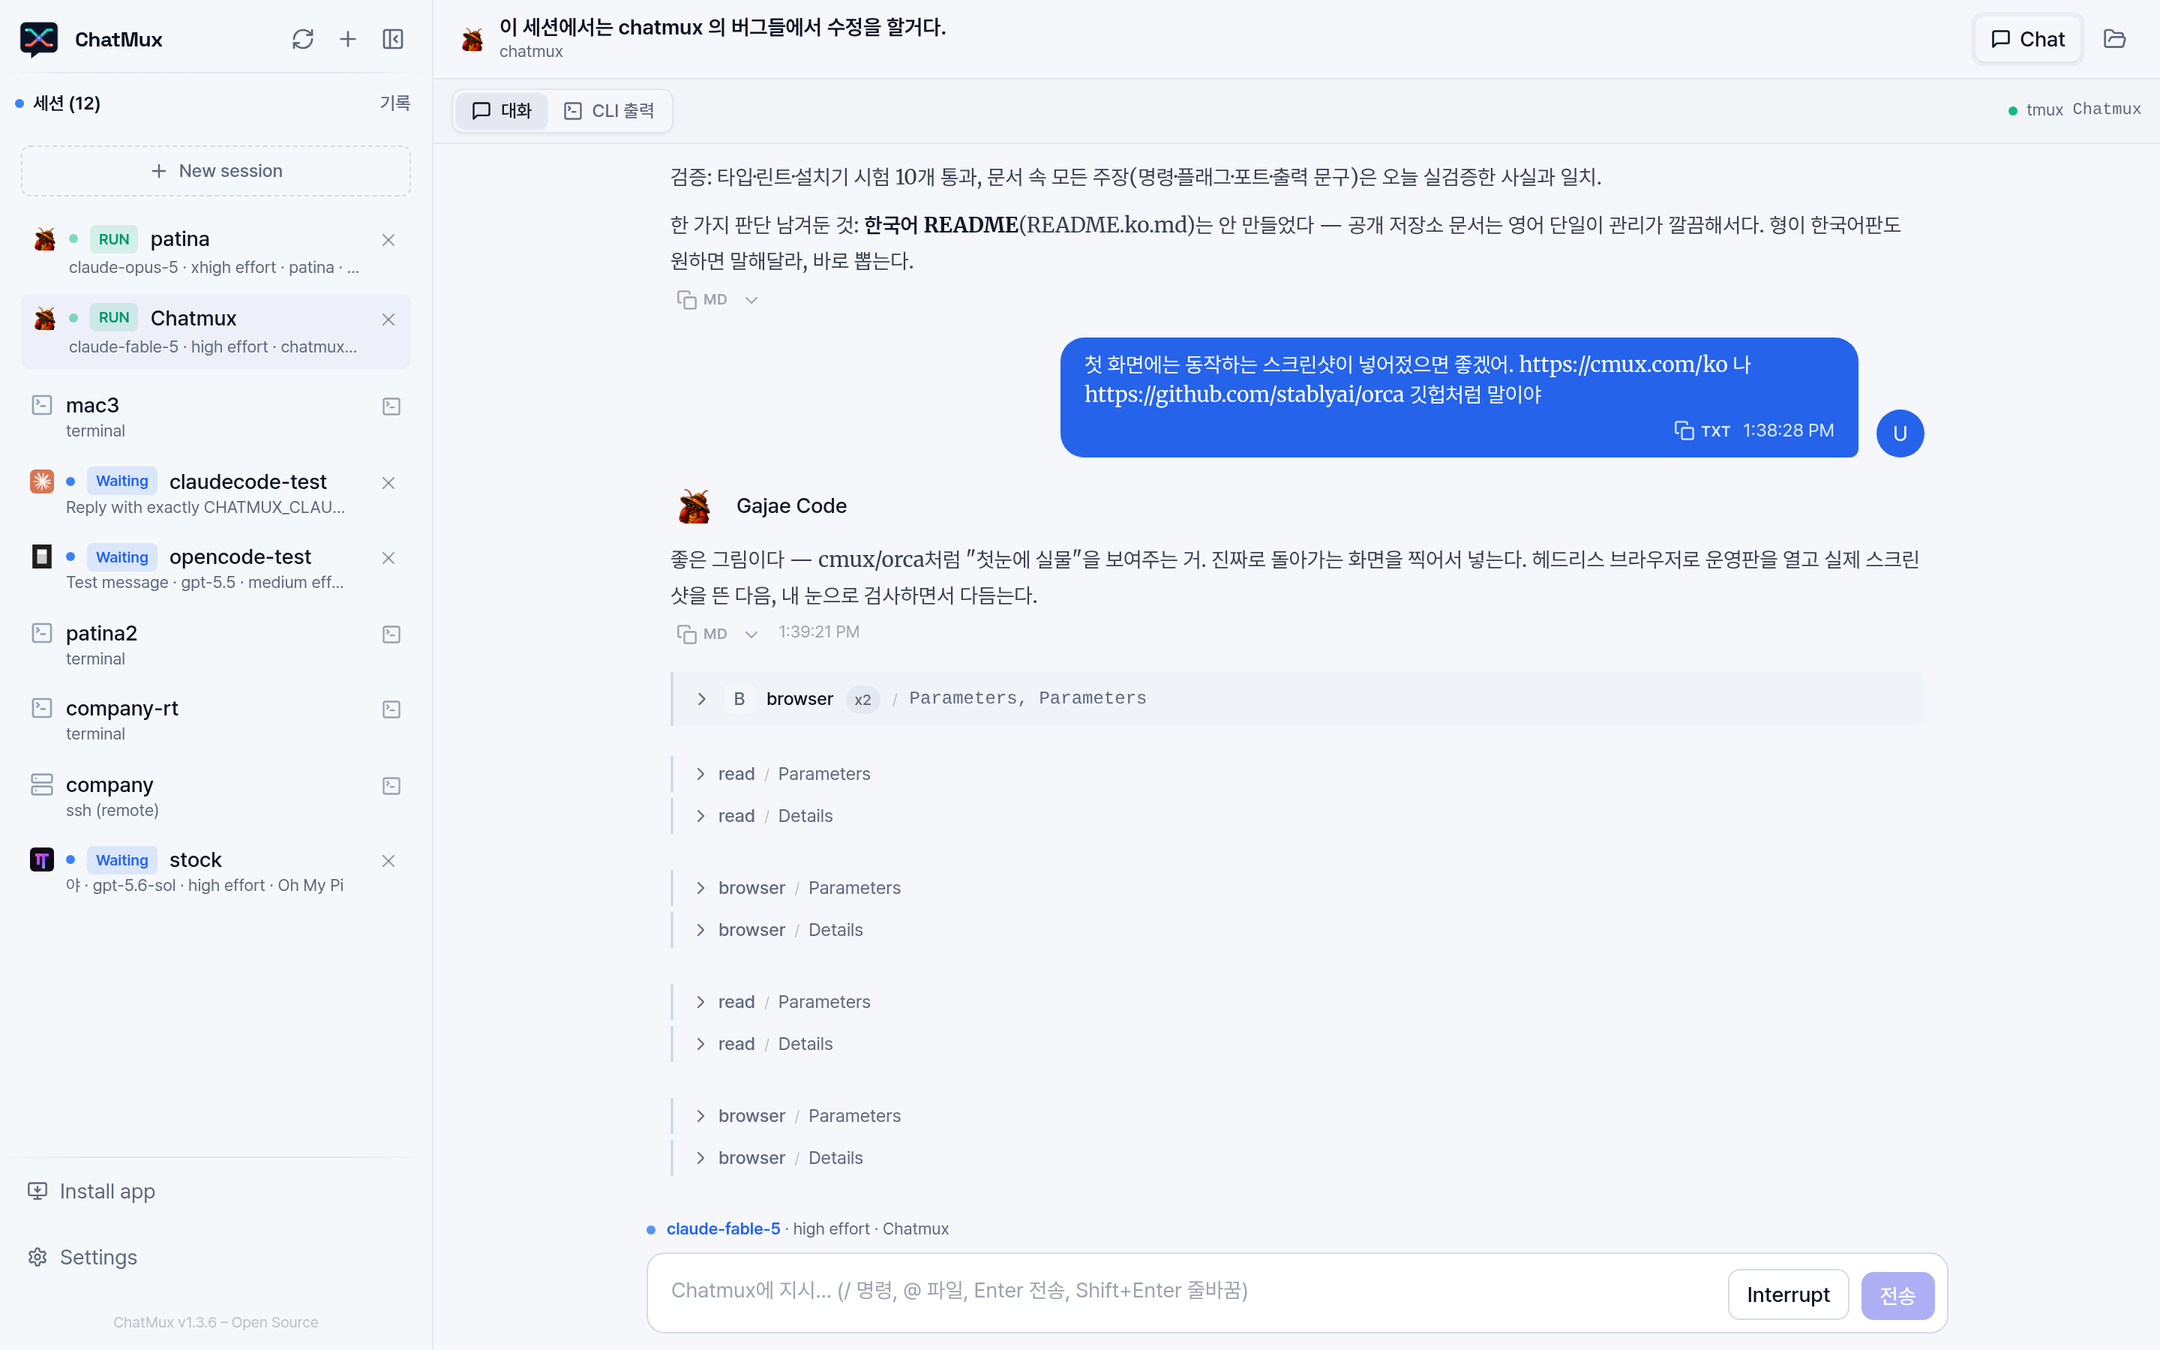
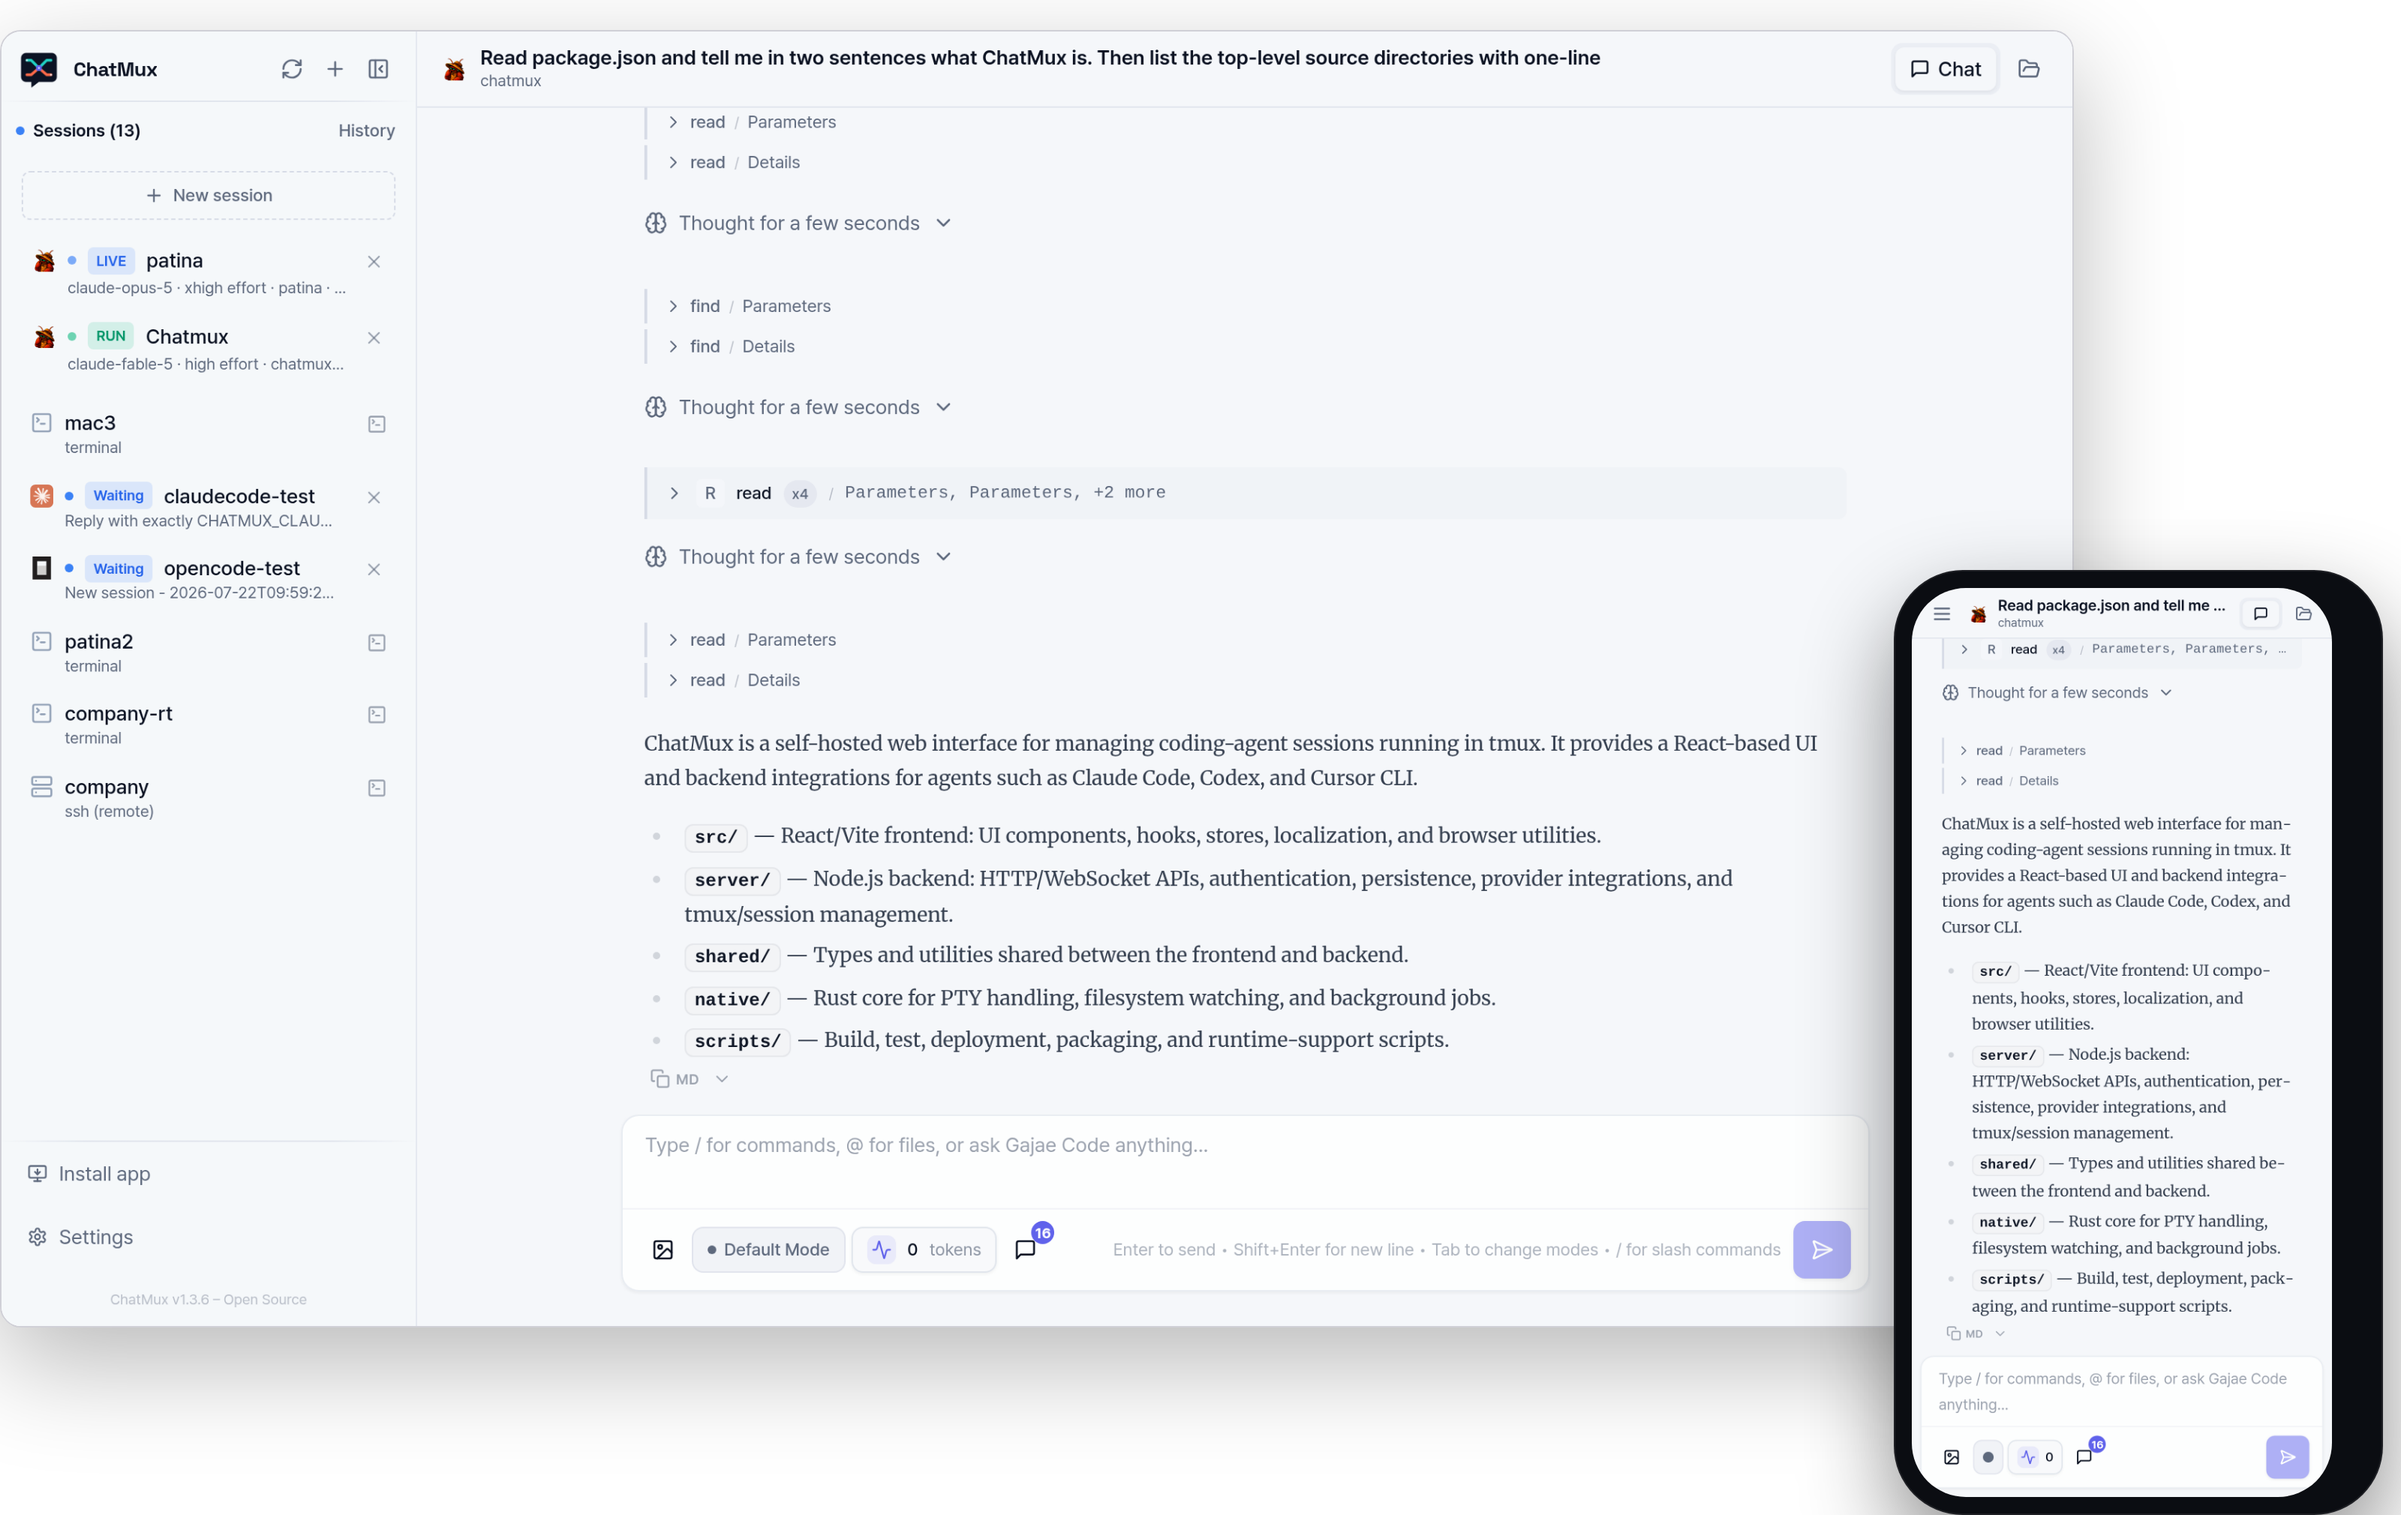
feat(i18n): translate hardcoded sidebar, transcript switcher, and relay strings
The sidebar tab headers, conversation/CLI-output switcher, and live
relay composer (placeholder, send button, neutral session label) were
hardcoded Korean, so every non-Korean user saw Korean chrome. They now
resolve through the chat/sidebar locale namespaces with translations in
all ten supported languages, and the affected tests assert the English
renders through the real i18n config.

The README hero is recaptured in English as a desktop-plus-phone
composite of a real session, both taken live from the running deck.

diff --git a/src/components/chat/view/subcomponents/LiveRelayComposer.tsx b/src/components/chat/view/subcomponents/LiveRelayComposer.tsx
@@ -70,10 +70,10 @@ export default function LiveRelayComposer({
   relayKind?: 'gjc' | 'codex' | 'claude' | 'cursor' | 'opencode' | 'omp';
 }) {
   const commandTrigger = relayKind === 'codex' ? '$' : '/';
-  const displayName = sessionName?.trim() || '현재 세션';
+  const { t } = useTranslation('chat');
+  const displayName = sessionName?.trim() || t('relay.currentSession');
   const [input, setInput] = useState('');
   const [status, setStatus] = useState<RelayStatus>({ kind: 'idle' });
-  const { t } = useTranslation('chat');
   const [isInterrupting, setIsInterrupting] = useState(false);
   const [assetStatus, setAssetStatus] = useState<
     { kind: 'idle' } | { kind: 'uploading' } | { kind: 'error'; text: string }
@@ -589,7 +589,7 @@ export default function LiveRelayComposer({
               syncFileMenu(input, caret);
             }}
             rows={1}
-            placeholder={`${displayName}에 지시… (${commandTrigger} 명령, @ 파일, Enter 전송, Shift+Enter 줄바꿈)`}
+            placeholder={t('relay.placeholder', { name: displayName, trigger: commandTrigger })}
             className="max-h-40 min-h-9 flex-1 resize-none bg-transparent px-2 py-1.5 text-sm outline-none"
           />
           {canInterrupt && (
@@ -608,7 +608,7 @@ export default function LiveRelayComposer({
             disabled={!input.trim() || status.kind === 'sending'}
             className="shrink-0 rounded-lg bg-primary px-3 py-1.5 text-sm font-medium text-primary-foreground transition-colors hover:brightness-110 disabled:cursor-not-allowed disabled:opacity-50"
           >
-            {status.kind === 'sending' ? '전송 중…' : '전송'}
+            {status.kind === 'sending' ? t('relay.sending') : t('relay.send')}
           </button>
         </div>
       </div>

diff --git a/src/components/sidebar/view/subcomponents/SidebarContent.tsx b/src/components/sidebar/view/subcomponents/SidebarContent.tsx
@@ -250,7 +250,7 @@ export default function SidebarContent({
         {topTab === 'sessions' ? (
           <span className="flex items-center gap-1.5 px-1 text-xs font-semibold text-foreground">
             <span className="inline-flex h-1.5 w-1.5 rounded-full bg-blue-500" aria-hidden />
-            세션{sessionCount > 0 ? ` (${sessionCount})` : ''}
+            {t('tabs.sessions')}{sessionCount > 0 ? ` (${sessionCount})` : ''}
           </span>
         ) : (
           <button
@@ -258,19 +258,19 @@ export default function SidebarContent({
             onClick={() => setTopTab('sessions')}
             className="rounded-md px-2 py-1 text-xs font-medium text-muted-foreground transition-colors hover:bg-muted/50 hover:text-foreground"
           >
-            세션{sessionCount > 0 ? ` (${sessionCount})` : ''}
+            {t('tabs.sessions')}{sessionCount > 0 ? ` (${sessionCount})` : ''}
           </button>
         )}
         <span className="flex-1" />
         {topTab === 'archive' ? (
-          <span className="px-1 text-xs font-semibold text-foreground">기록</span>
+          <span className="px-1 text-xs font-semibold text-foreground">{t('tabs.archive')}</span>
         ) : (
           <button
             type="button"
             onClick={() => setTopTab('archive')}
             className="rounded-md px-2 py-1 text-xs font-medium text-muted-foreground transition-colors hover:bg-muted/50 hover:text-foreground"
           >
-            기록
+            {t('tabs.archive')}
           </button>
         )}
       </div>

diff --git a/src/components/chat/view/subcomponents/LiveRelayComposer.test.tsx b/src/components/chat/view/subcomponents/LiveRelayComposer.test.tsx
@@ -40,7 +40,7 @@ test('LiveRelayComposer identifies the target by tmux name without exposing raw 
   assert.ok(html.includes('gpt-5.6-sol'));
   assert.ok(html.includes('xhigh effort'));
   assert.ok(html.includes('chatmux2'));
-  assert.ok(html.includes('chatmux2에 지시…'));
+  assert.ok(html.includes('Message chatmux2…'));
   assert.ok(!html.includes('$117'));
   assert.ok(!html.includes('%123'));
 });
@@ -48,7 +48,7 @@ test('LiveRelayComposer identifies the target by tmux name without exposing raw 
 test('LiveRelayComposer uses a neutral label when no tmux name is available', () => {
   const html = renderToStaticMarkup(createElement(LiveRelayComposer, { target }));
 
-  assert.ok(html.includes('현재 세션'));
+  assert.ok(html.includes('current session'));
   assert.ok(!html.includes('$117'));
   assert.ok(!html.includes('%123'));
 });
@@ -139,6 +139,7 @@ test('relay translations exist in every supported locale', () => {
       'utf8',
     )) as { relay?: Record<string, string> };
     assert.deepEqual(Object.keys(translation.relay ?? {}).sort(), [
+      'currentSession',
       'imagePathRejected',
       'imageUploadFailed',
       'imageUploading',
@@ -146,6 +147,9 @@ test('relay translations exist in every supported locale', () => {
       'interruptFailed',
       'interruptSent',
       'interrupting',
+      'placeholder',
+      'send',
+      'sending',
     ]);
   }
 });

diff --git a/src/components/main-content/view/subcomponents/ExternalTranscriptViewSwitcher.tsx b/src/components/main-content/view/subcomponents/ExternalTranscriptViewSwitcher.tsx
@@ -1,4 +1,5 @@
 import { MessageSquare, SquareTerminal } from 'lucide-react';
+import { useTranslation } from 'react-i18next';
 
 export type ExternalTranscriptView = 'conversation' | 'cli';
 
@@ -15,11 +16,12 @@ export default function ExternalTranscriptViewSwitcher({
   tmuxName,
   onChange,
 }: ExternalTranscriptViewSwitcherProps) {
+  const { t } = useTranslation('chat');
   return (
     <div className="flex flex-shrink-0 items-center justify-between gap-3 border-b border-border/50 bg-muted/15 px-3 py-1.5">
       <div
         role="tablist"
-        aria-label={`${providerLabel} 세션 보기`}
+        aria-label={t('transcript.viewSwitcherLabel', { provider: providerLabel })}
         className="inline-flex items-center rounded-lg border border-border/60 bg-background/80 p-0.5 shadow-sm"
       >
         <button
@@ -34,7 +36,7 @@ export default function ExternalTranscriptViewSwitcher({
           }`}
         >
           <MessageSquare className="h-3.5 w-3.5" aria-hidden />
-          대화
+          {t('transcript.conversationTab')}
         </button>
         <button
           type="button"
@@ -48,7 +50,7 @@ export default function ExternalTranscriptViewSwitcher({
           }`}
         >
           <SquareTerminal className="h-3.5 w-3.5" aria-hidden />
-          CLI 출력
+          {t('transcript.cliTab')}
         </button>
       </div>
 

diff --git a/src/components/main-content/view/subcomponents/ExternalTranscriptViewSwitcher.test.tsx b/src/components/main-content/view/subcomponents/ExternalTranscriptViewSwitcher.test.tsx
@@ -3,6 +3,7 @@ import test from 'node:test';
 
 import React from 'react';
 import { renderToStaticMarkup } from 'react-dom/server';
+import '../../../../i18n/config';
 
 import ExternalTranscriptViewSwitcher from './ExternalTranscriptViewSwitcher';
 
@@ -17,10 +18,10 @@ test('external transcript switcher exposes conversation and live CLI output view
   );
 
   assert.ok(html.includes('role="tablist"'));
-  assert.ok(html.includes('aria-label="Codex CLI 세션 보기"'));
+  assert.ok(html.includes('aria-label="Codex CLI session view"'));
   assert.ok(html.includes('aria-selected="true"'));
-  assert.ok(html.includes('대화'));
-  assert.ok(html.includes('CLI 출력'));
+  assert.ok(html.includes('Chat'));
+  assert.ok(html.includes('CLI output'));
   assert.ok(html.includes('test-codex'));
 });
 
@@ -36,5 +37,5 @@ test('external transcript switcher marks CLI output as selected', () => {
 
   const selected = html.match(/aria-selected="true"/g) ?? [];
   assert.equal(selected.length, 1);
-  assert.match(html, /aria-selected="true"[^>]*>.*CLI 출력/);
+  assert.match(html, /aria-selected="true"[^>]*>.*CLI output/);
 });

diff --git a/src/components/main-content/view/MainContent.tsx b/src/components/main-content/view/MainContent.tsx
@@ -622,7 +622,7 @@ function MainContent({
               && externalTranscriptView === 'cli' && (
               <div
                 role="tabpanel"
-                aria-label={`${transcriptCliProviderLabel} CLI 출력`}
+                aria-label={`${transcriptCliProviderLabel} ${t('transcript.cliTab')}`}
                 className="flex min-h-0 flex-1 flex-col"
               >
                 {transcriptCliAttachTarget ? (

diff --git a/README.md b/README.md
@@ -9,7 +9,7 @@
 </p>
 
 <p align="center">
-  <img src="public/brand/readme-screenshot.png" alt="ChatMux in a browser: the sidebar lists live tmux agent sessions across providers, and the selected Gajae Code session renders as a structured conversation with live tool activity and a composer" width="900">
+  <img src="public/brand/readme-screenshot.png" alt="ChatMux on desktop and phone: the sidebar lists live tmux agent sessions across providers, and the selected session renders as a structured English conversation with tool activity and a composer" width="900">
 </p>
 
 <p align="center">
